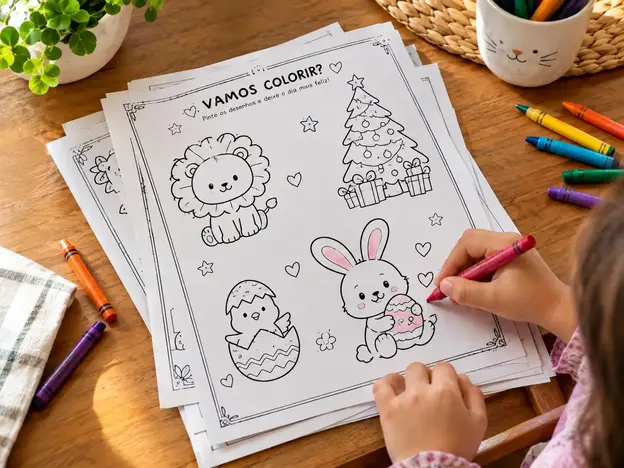
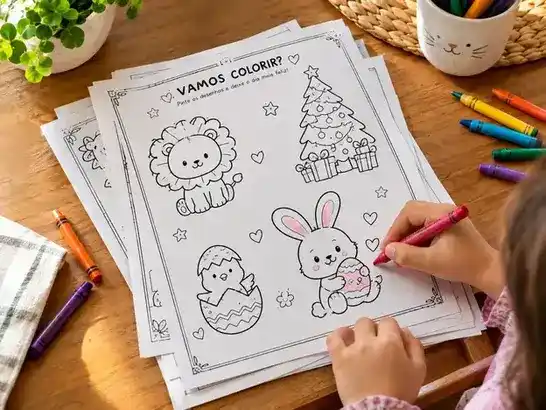
Otimização das imagens

diff --git a/index.html b/index.html
@@ -66,7 +66,7 @@ src="https://www.facebook.com/tr?id=1444327460889273&ev=PageView&noscript=1"
         <img src="imgs/Mockop Site.webp"
   alt="Apostilas impressas do Método Alfabeto Mágico sobre a mesa, com lápis de cor e o Quadro de Incentivos"
   fetchpriority="high"
-  width="724" height="512">
+  width="634" height="448">
         <span class="hero-badge hero-badge-bottom">Impressão econômica em preto e branco</span>
       </div>
       <div class="hero-actions">
